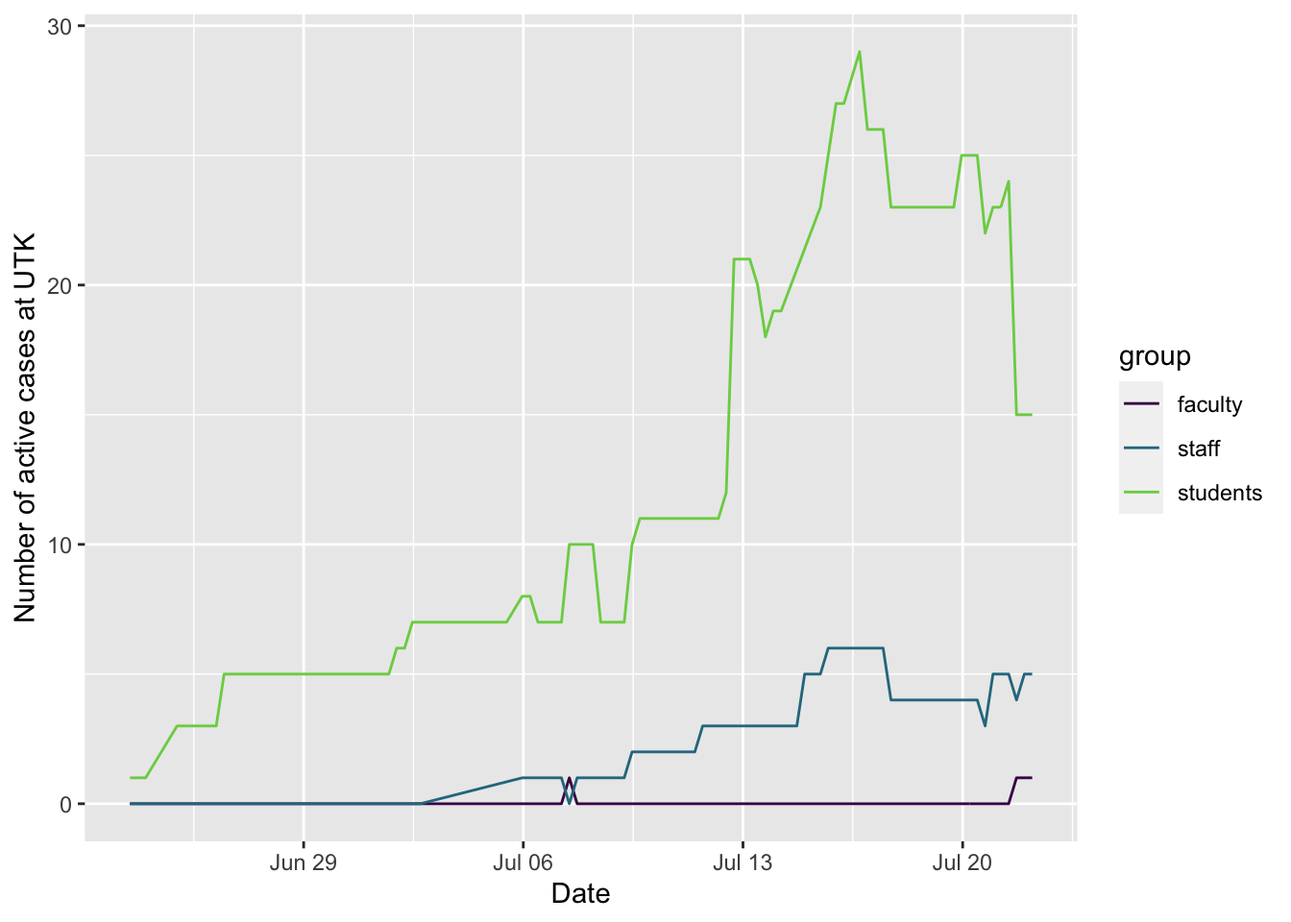
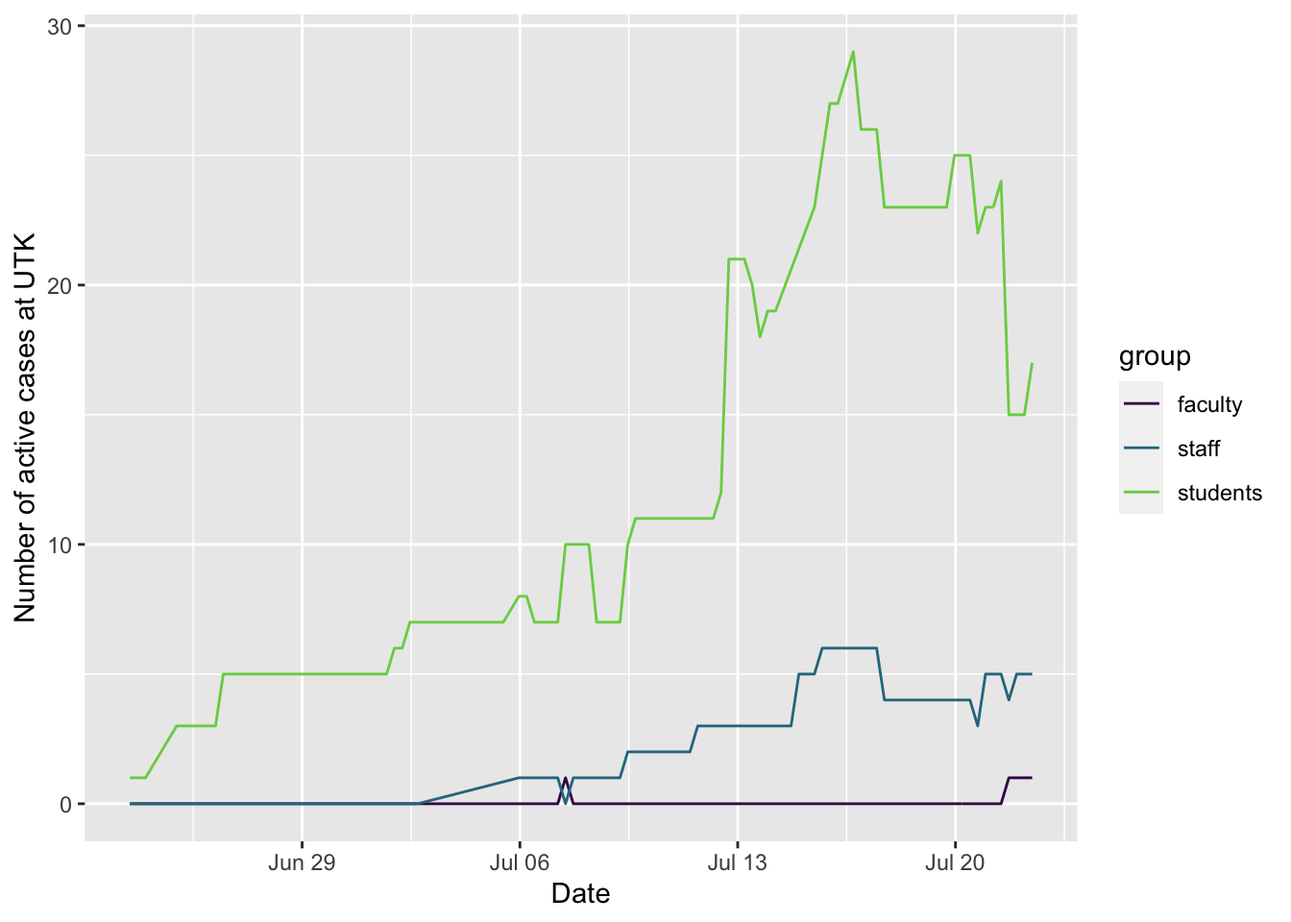
updating site

diff --git a/docs/general.html b/docs/general.html
@@ -13,7 +13,6 @@
 
 <title>General</title>
 
-<script src="site_libs/header-attrs-2.3/header-attrs.js"></script>
 <script src="site_libs/jquery-1.11.3/jquery.min.js"></script>
 <meta name="viewport" content="width=device-width, initial-scale=1" />
 <link href="site_libs/bootstrap-3.3.5/css/bootstrap.min.css" rel="stylesheet" />
@@ -402,7 +401,7 @@ $(document).ready(function () {
 <h2>Research</h2>
 <p>A major duty of a science professor, especially at a research-intensive place like U. of Tennessee, Knoxville, is to expand human knowledge through her or his research efforts. I work in a variety of areas to do this.</p>
 <ul>
-<li><p><strong>Species discovery</strong>: One area is figuring out how many species are actually present within a group. We often think of new species being discovered by, say, <a href="https://en.wikipedia.org/wiki/Marjorie_Courtenay-Latimer#Discovery_of_the_coelacanth">an astute observer seeing a weird fish in a market</a>, or on an expedition to a remote area of the jungle, but in fact many new species are discovered as a result of data showing that what we thought was one species was actually two different species with limited or no interbreeding: see examples of <a href="http://voices.nationalgeographic.com/2013/12/20/new-species-animals-tapir-brazil/">tapirs</a> or even <a href="http://news.nationalgeographic.com/news/2010/12/101222-african-elephants-two-species-new-science/">African elephants</a>. I develop some of the techniques we use to make these discoveries. This matters for basic biology: it is hard for scientists to communicate information without having names for biologically meaningful groups, and it is important to understand what leads to and maintains separate groups, but it also matters in the applied area: it is hard to conserve species properly if we do not recognize what they are (we might wipe out a species that we didn’t realize was independent, or might devote resources to saving a "species’ that is actually just a variant of a common species and lose another species due to finite resources).</p></li>
+<li><p><strong>Species discovery</strong>: One area is figuring out how many species are actually present within a group. We often think of new species being discovered by, say, <a href="https://en.wikipedia.org/wiki/Marjorie_Courtenay-Latimer#Discovery_of_the_coelacanth">an astute observer seeing a weird fish in a market</a>, or on an expedition to a remote area of the jungle, but in fact many new species are discovered as a result of data showing that what we thought was one species was actually two different species with limited or no interbreeding: see examples of <a href="http://voices.nationalgeographic.com/2013/12/20/new-species-animals-tapir-brazil/">tapirs</a> or even <a href="http://news.nationalgeographic.com/news/2010/12/101222-african-elephants-two-species-new-science/">African elephants</a>. I develop some of the techniques we use to make these discoveries. This matters for basic biology: it is hard for scientists to communicate information without having names for biologically meaningful groups, and it is important to understand what leads to and maintains separate groups, but it also matters in the applied area: it is hard to conserve species properly if we do not recognize what they are (we might wipe out a species that we didn’t realize was independent, or might devote resources to saving a &quot;species’ that is actually just a variant of a common species and lose another species due to finite resources).</p></li>
 <li><p>I also develop methods for <strong>looking at past history of life</strong>. For example, we have methods that can give information about how species have multiplied through time: do they exchange genes for a long time, has their population crashed at some point in the past, etc. This helps us understand how the current world came to be, but also may be useful in predicting what will happen as life and the environment continue to change.</p></li>
 <li><p>One major research focus has been developing approaches for looking at <strong>how and why traits change over time</strong>. For example, if you look in many environments you see more flowering plants than nonflowering plants like pines and ferns – why is this? Or questions like, once most of the dinosaurs (birds survived) went extinct, did mammals’ body size rapidly increase or was it gradual?</p></li>
 <li><p>One way I accomplish my research goals, as well as help others, is by <strong>writing software</strong>. It’s one thing to have an idea of how to solve a problem, but if you write a program to do this, then you and others can actually use the method to solve a problem. My software is free and open source. This means anyone can use it without paying me money (which makes sense, as my work has already been directly or indirectly paid for by taxpayers). It also means that anyone can look inside the software to see how it works. For example, <a href="https://github.com/bomeara/brownie/blob/master/brownie.cpp">here</a> is an example of some of the code I wrote as a grad student; you can see how people have used it by looking at <a href="https://scholar.google.com/scholar?oi=bibs&amp;hl=en&amp;cites=9860338757215931909">the hundreds of articles that cite it</a> (though some are citing just the method, not using the software itself). Another important aspect of open source software is that not only can you look at it, you can build on it to make new software, without needing my permission, as long as you make it clear that you’re reusing my software, give appropriate credit, and release your software under the same rules (allowing reuse, showing the code, etc.). Building on others’ work, while giving them credit, is one of the key ways science advances. Making software open also lets others check for errors and try to reproduce studies.</p></li>

diff --git a/docs/publications.html b/docs/publications.html
@@ -13,7 +13,6 @@
 
 <title>publications.utf8</title>
 
-<script src="site_libs/header-attrs-2.3/header-attrs.js"></script>
 <script src="site_libs/jquery-1.11.3/jquery.min.js"></script>
 <meta name="viewport" content="width=device-width, initial-scale=1" />
 <link href="site_libs/bootstrap-3.3.5/css/bootstrap.min.css" rel="stylesheet" />
@@ -398,7 +397,7 @@ $(document).ready(function () {
 
 <div id="publications" class="section level2">
 <h2>Publications</h2>
-<p>I would recommend reading a few of my best papers to get a sense of my work; good examples are <a href="https://doi.org/10.1098/rspb.2015.2304">O’Meara, Smith, et al. (2016)</a> and <a href="https://doi.org/10.1093/sysbio/syw022">Beaulieu &amp; O’Meara (2016)</a>. Metrics are not as great (for example, my work with software might get cited than someone else’s work on a new discovery about evolution, but it is not clear that the former is ‘better’) , but I know some people find them useful, so: According to Google Scholar, my work has been cited 4730 times, and my h-index is 27. (Google Scholar tends to overestimate citations, however). If there were a journal of just my papers, its 2019 impact factor would be 7.75. Also note that I work under a very stringent criterion for when I get authorship – I have to actively make a significant contribution to the research and writing to merit authorship. For example, in 2015-6, three lab members had papers in <em>Science</em> (<a href="http://science.sciencemag.org/content/350/6264/1077.long">grad student Sam Borstein</a>, <a href="http://science.sciencemag.org/content/351/6268/28">postdoc Nick Matzke</a>, and <a href="http://science.sciencemag.org/content/353/6295/154.full">postdoc Sandy Kawano</a>) but I am, appropriately to my mind, not an author on any of these.</p>
+<p>I would recommend reading a few of my best papers to get a sense of my work; good examples are <a href="https://doi.org/10.1098/rspb.2015.2304">O’Meara, Smith, et al. (2016)</a> and <a href="https://doi.org/10.1093/sysbio/syw022">Beaulieu &amp; O’Meara (2016)</a>. Metrics are not as great (for example, my work with software might get cited than someone else’s work on a new discovery about evolution, but it is not clear that the former is ‘better’) , but I know some people find them useful, so: According to Google Scholar, my work has been cited 4730 times, and my h-index is 27. (Google Scholar tends to overestimate citations, however). If there were a journal of just my papers, its 2019 impact factor would be 7.75. Also note that I work under a very stringent criterion for when I get authorship – I have to actively make a significant contribution to the research and writing to merit authorship. For example, in 2015-6, three lab members had papers in <em>Science</em> (<a href="http://science.sciencemag.org/content/350/6264/1077.long">grad student Sam Borstein</a>, <a href="http://science.sciencemag.org/content/351/6268/28">postdoc Nick Matzke</a>, and <a href="http://science.sciencemag.org/content/353/6295/154.full">postdoc Sandy Kawano</a>) but I am, appropriately to my mind, not an author on any of these.</p>
 <div id="papers" class="section level3">
 <h3>Papers</h3>
 <table>
@@ -828,7 +827,7 @@ $(document).ready(function () {
 </tr>
 <tr class="odd">
 <td>phylobase</td>
-<td>R Hackathon et al. (alphabetically: Ben Bolker, Marguerite Butler, Peter Cowan, Damien de Vienne, Dirk Eddelbuettel, Mark Holder, Thibaut, Jombart, Steve Kembel, Francois Michonneau, David Orme, Brian O’Meara, Emmanuel Paradis, Jim Regetz, Derrick Zwickl)</td>
+<td>R Hackathon et al. (alphabetically: Ben Bolker, Marguerite Butler, Peter Cowan, Damien de Vienne, Dirk Eddelbuettel, Mark Holder, Thibaut, Jombart, Steve Kembel, Francois Michonneau, David Orme, Brian O’Meara, Emmanuel Paradis, Jim Regetz, Derrick Zwickl)</td>
 <td>Base Package for Phylogenetic Structures and Comparative Data</td>
 <td>133383</td>
 </tr>

diff --git a/docs/cv.html b/docs/cv.html
@@ -13,7 +13,6 @@
 
 <title>CV</title>
 
-<script src="site_libs/header-attrs-2.3/header-attrs.js"></script>
 <script src="site_libs/jquery-1.11.3/jquery.min.js"></script>
 <meta name="viewport" content="width=device-width, initial-scale=1" />
 <link href="site_libs/bootstrap-3.3.5/css/bootstrap.min.css" rel="stylesheet" />
@@ -459,7 +458,7 @@ $(document).ready(function () {
 </div>
 <div id="publications" class="section level2">
 <h2>Publications</h2>
-<p>I would recommend reading a few of my best papers to get a sense of my work; good examples are <a href="https://doi.org/10.1098/rspb.2015.2304">O’Meara, Smith, et al. (2016)</a> and <a href="https://doi.org/10.1093/sysbio/syw022">Beaulieu &amp; O’Meara (2016)</a>. Metrics are not as great (for example, my work with software might get cited than someone else’s work on a new discovery about evolution, but it is not clear that the former is ‘better’) , but I know some people find them useful, so: According to Google Scholar, my work has been cited 4730 times, and my h-index is 27. (Google Scholar tends to overestimate citations, however). If there were a journal of just my papers, its 2019 impact factor would be 7.75. Also note that I work under a very stringent criterion for when I get authorship – I have to actively make a significant contribution to the research and writing to merit authorship. For example, in 2015-6, three lab members had papers in <em>Science</em> (<a href="http://science.sciencemag.org/content/350/6264/1077.long">grad student Sam Borstein</a>, <a href="http://science.sciencemag.org/content/351/6268/28">postdoc Nick Matzke</a>, and <a href="http://science.sciencemag.org/content/353/6295/154.full">postdoc Sandy Kawano</a>) but I am, appropriately to my mind, not an author on any of these.</p>
+<p>I would recommend reading a few of my best papers to get a sense of my work; good examples are <a href="https://doi.org/10.1098/rspb.2015.2304">O’Meara, Smith, et al. (2016)</a> and <a href="https://doi.org/10.1093/sysbio/syw022">Beaulieu &amp; O’Meara (2016)</a>. Metrics are not as great (for example, my work with software might get cited than someone else’s work on a new discovery about evolution, but it is not clear that the former is ‘better’) , but I know some people find them useful, so: According to Google Scholar, my work has been cited 4730 times, and my h-index is 27. (Google Scholar tends to overestimate citations, however). If there were a journal of just my papers, its 2019 impact factor would be 7.75. Also note that I work under a very stringent criterion for when I get authorship – I have to actively make a significant contribution to the research and writing to merit authorship. For example, in 2015-6, three lab members had papers in <em>Science</em> (<a href="http://science.sciencemag.org/content/350/6264/1077.long">grad student Sam Borstein</a>, <a href="http://science.sciencemag.org/content/351/6268/28">postdoc Nick Matzke</a>, and <a href="http://science.sciencemag.org/content/353/6295/154.full">postdoc Sandy Kawano</a>) but I am, appropriately to my mind, not an author on any of these.</p>
 <div id="papers" class="section level3">
 <h3>Papers</h3>
 <table>
@@ -889,7 +888,7 @@ $(document).ready(function () {
 </tr>
 <tr class="odd">
 <td>phylobase</td>
-<td>R Hackathon et al. (alphabetically: Ben Bolker, Marguerite Butler, Peter Cowan, Damien de Vienne, Dirk Eddelbuettel, Mark Holder, Thibaut, Jombart, Steve Kembel, Francois Michonneau, David Orme, Brian O’Meara, Emmanuel Paradis, Jim Regetz, Derrick Zwickl)</td>
+<td>R Hackathon et al. (alphabetically: Ben Bolker, Marguerite Butler, Peter Cowan, Damien de Vienne, Dirk Eddelbuettel, Mark Holder, Thibaut, Jombart, Steve Kembel, Francois Michonneau, David Orme, Brian O’Meara, Emmanuel Paradis, Jim Regetz, Derrick Zwickl)</td>
 <td>Base Package for Phylogenetic Structures and Comparative Data</td>
 <td>133383</td>
 </tr>

diff --git a/docs/research.html b/docs/research.html
@@ -13,7 +13,6 @@
 
 <title>Research</title>
 
-<script src="site_libs/header-attrs-2.3/header-attrs.js"></script>
 <script src="site_libs/jquery-1.11.3/jquery.min.js"></script>
 <meta name="viewport" content="width=device-width, initial-scale=1" />
 <link href="site_libs/bootstrap-3.3.5/css/bootstrap.min.css" rel="stylesheet" />
@@ -400,7 +399,7 @@ $(document).ready(function () {
 <p>Note you can see a feed of recent articles at <a href="http://scholar.google.com/citations?sortby=pubdate&amp;hl=en&amp;user=vpjEkQwAAAAJ&amp;view_op=list_works">Google Scholar</a>; this updates more quickly than this page does. In the lag time between submission and publication, you can see my manuscripts on <a href="http://biorxiv.org/search/author1%3ABrian%2BO%2527Meara%2B">bioRxiv</a>.</p>
 <div id="trait-evolution" class="section level3">
 <h3>Trait evolution</h3>
-<p>Work in our lab most usually focuses on trait evolution, with most emphasis on methods that allow heterogeneity over the tree. For example, O’Meara et al. (2006) developed a method that allows the rate of Brownian motion to vary over a tree. This can be used to test ideas about rate evolution (Collar et al. 2009; Collar et al. 2010) and has been cited 150 times (according to Google Scholar in Aug. 2012). This work has been extended to deal with shifting rates, strengths of attraction, and means under an Ornstein-Uhlenbeck process (Beaulieu et al. 2012). Similarly, we have developed a model for different rates of gene loss on different parts of a tree (O’Meara 2007) and methods for looking at hidden rates for discrete characters (Beaulieu et al. 2014). A review of methods in general has been published (O’Meara 2012b) where I tried to show connections across methods. We have also looked at empirical datasets, often plants, to understand evolutionary processes (eg., Zanne et al. 2013, Williams et al. 2014, Cornwell et al. 2014).</p>
+<p>Work in our lab most usually focuses on trait evolution, with most emphasis on methods that allow heterogeneity over the tree. For example, O’Meara et al. (2006) developed a method that allows the rate of Brownian motion to vary over a tree. This can be used to test ideas about rate evolution (Collar et al. 2009; Collar et al. 2010) and has been cited 150 times (according to Google Scholar in Aug. 2012). This work has been extended to deal with shifting rates, strengths of attraction, and means under an Ornstein-Uhlenbeck process (Beaulieu et al. 2012). Similarly, we have developed a model for different rates of gene loss on different parts of a tree (O’Meara 2007) and methods for looking at hidden rates for discrete characters (Beaulieu et al. 2014). A review of methods in general has been published (O’Meara 2012b) where I tried to show connections across methods. We have also looked at empirical datasets, often plants, to understand evolutionary processes (eg., Zanne et al. 2013, Williams et al. 2014, Cornwell et al. 2014).</p>
 </div>
 <div id="species-delimitation-gene-tree-species-tree-messiness" class="section level3">
 <h3>Species delimitation / gene tree-species tree messiness</h3>

diff --git a/docs/covid.html b/docs/covid.html
@@ -14,7 +14,6 @@
 
 <title>Local COVID data</title>
 
-<script src="site_libs/header-attrs-2.3/header-attrs.js"></script>
 <script src="site_libs/jquery-1.11.3/jquery.min.js"></script>
 <meta name="viewport" content="width=device-width, initial-scale=1" />
 <link href="site_libs/bootstrap-3.3.5/css/bootstrap.min.css" rel="stylesheet" />
@@ -424,7 +423,7 @@ $(document).ready(function () {
 <li>Info about <a href="#activity">activity</a> based on data from Google about activity at different locations</li>
 <li><a href="#webcams">Webcams</a> showing activity at local sites, though not quite at the resolution to point to mask usage or not</li>
 </ul>
-<p>The following plots are created in R using data from <a href="https://covid19datahub.io" class="uri">https://covid19datahub.io</a> (Guidotti, E., Ardia, D., (2020), “COVID-19 Data Hub”, Working paper, doi: 10.13140/RG.2.2.11649.81763), as well as information from Google and the <a href="https://www.tn.gov/health/cedep/ncov/data/downloadable-datasets.html">state of Tennessee dataset page</a> and plotting and analysis using the <code>forecast</code>, <code>ggplot2</code>, <code>reshape2</code>, and <code>dplyr</code> packages. It also uses the <a href="https://github.com/mtna/rds-r">rds-r</a> package from <a href="https://www.richdataservices.com/" class="uri">https://www.richdataservices.com/</a>. Plots created on 2020-07-22 07:57:35. I use <code>ggplot2</code>’s <code>geom_smooth()</code> function for the smoothed regression plots with its default formula, which uses loess smoothing for this many points. This is not based on a model of disease spread or anything similarly sophisticated, just drawing a smooth curve to summarize noisy points (see <a href="https://www.itl.nist.gov/div898/handbook/pmd/section1/pmd144.htm">here</a> for more details).</p>
+<p>The following plots are created in R using data from <a href="https://covid19datahub.io" class="uri">https://covid19datahub.io</a> (Guidotti, E., Ardia, D., (2020), “COVID-19 Data Hub”, Working paper, doi: 10.13140/RG.2.2.11649.81763), as well as information from Google and the <a href="https://www.tn.gov/health/cedep/ncov/data/downloadable-datasets.html">state of Tennessee dataset page</a> and plotting and analysis using the <code>forecast</code>, <code>ggplot2</code>, <code>reshape2</code>, and <code>dplyr</code> packages. It also uses the <a href="https://github.com/mtna/rds-r">rds-r</a> package from <a href="https://www.richdataservices.com/" class="uri">https://www.richdataservices.com/</a>. Plots created on 2020-07-22 12:34:04. I use <code>ggplot2</code>’s <code>geom_smooth()</code> function for the smoothed regression plots with its default formula, which uses loess smoothing for this many points. This is not based on a model of disease spread or anything similarly sophisticated, just drawing a smooth curve to summarize noisy points (see <a href="https://www.itl.nist.gov/div898/handbook/pmd/section1/pmd144.htm">here</a> for more details).</p>
 <h2 id="cases">
 Cases
 </h2>

diff --git a/docs/opportunities.html b/docs/opportunities.html
@@ -13,7 +13,6 @@
 
 <title>Opportunities</title>
 
-<script src="site_libs/header-attrs-2.3/header-attrs.js"></script>
 <script src="site_libs/jquery-1.11.3/jquery.min.js"></script>
 <meta name="viewport" content="width=device-width, initial-scale=1" />
 <link href="site_libs/bootstrap-3.3.5/css/bootstrap.min.css" rel="stylesheet" />
@@ -403,7 +402,7 @@ $(document).ready(function () {
 <p>You might look at <a href="http://brianomeara.info/guidelines.html">lab guidelines</a> to get a sense of how the lab works. Materials I created for <a href="http://brianomeara.info/promotion.html">promotion</a>, especially the promotion packet itself (<a href="http://brianomeara.info/files/OMearaPromotionPacket.pdf">PDF</a>) may give you a good summary of where my teaching, research, and service have been and are going. For what you might learn here, <a href="http://brianomeara.info/learningobjectives.html">learning objectives</a> can be helpful.</p>
 <div id="postdocs" class="section level2">
 <h2>Postdocs</h2>
-<div id="sept.-2019" class="section level3">
+<div id="sept.2019" class="section level3">
 <h3>Sept. 2019</h3>
 <p>There are three postdoc positions. They can be remote or local to Knoxville. In general, the lab is run in such a way that working remotely is fine – lab meetings are virtual for everyone, we have a group chat in slack, we do work through GitHub, etc. It can be good to be here (seminars, social connections with others) but not everyone has the flexibility to move.</p>
 <p>Two are for continuing development of Approximate Bayesian Computation approaches for phylogenetics. We have a method for single continuous traits almost ready (doing final simulations on it now) but we want to extend it to discrete traits, multivariate traits, and more. To apply for this, go to <a href="https://ut.taleo.net/careersection/ut_system/jobdetail.ftl?job=19000001LL&amp;tz=GMT-04%3A00&amp;tzname=America%2FNew_York">here</a>.</p>

diff --git a/docs/index.html b/docs/index.html
@@ -13,7 +13,6 @@
 
 <title>Home</title>
 
-<script src="site_libs/header-attrs-2.3/header-attrs.js"></script>
 <script src="site_libs/jquery-1.11.3/jquery.min.js"></script>
 <meta name="viewport" content="width=device-width, initial-scale=1" />
 <link href="site_libs/bootstrap-3.3.5/css/bootstrap.min.css" rel="stylesheet" />
@@ -32,7 +31,6 @@
 
   gtag('config', 'UA-103450-1');
 </script>
-
 
 <style type="text/css">code{white-space: pre;}</style>
 <style type="text/css">
@@ -410,7 +408,7 @@ $(document).ready(function () {
 <p><em>Most of this website is written for a specialist scientific audience; folks who aren’t scientists are very welcome to look around, but <a href="http://www.brianomeara.info/general">this page</a> might be a more accessible introduction. For a compressed version of information about me, please see my <a href="http://brianomeara.info/cv/">CV</a>.</em> I am a professor at <a href="http://www.utk.edu/">U of Tennessee, Knoxville</a>, in the department of <a href="http://eeb.bio.utk.edu/">Ecology &amp; Evolutionary Biology</a>. In my lab, we develop and apply phylogenetic tools to address evolutionary questions.</p>
 <div style="float:right">
 <div class="figure">
-<img src="hisse.jpg" alt="" />
+<img src="hisse.jpg" alt="HiSSE image" />
 <p class="caption">HiSSE image</p>
 </div>
 </div>
@@ -428,7 +426,7 @@ $(document).ready(function () {
 </ul>
 <div style="float:right">
 <div class="figure">
-<img src="phrapl.gif" alt="" />
+<img src="phrapl.gif" alt="PHRAPL diagram" />
 <p class="caption">PHRAPL diagram</p>
 </div>
 </div>

diff --git a/docs/eeb464.html b/docs/eeb464.html
@@ -13,7 +13,6 @@
 
 <title>Macroevolution (EEB464)</title>
 
-<script src="site_libs/header-attrs-2.3/header-attrs.js"></script>
 <script src="site_libs/jquery-1.11.3/jquery.min.js"></script>
 <meta name="viewport" content="width=device-width, initial-scale=1" />
 <link href="site_libs/bootstrap-3.3.5/css/bootstrap.min.css" rel="stylesheet" />
@@ -1028,7 +1027,7 @@ Grading:</strong></p>
 <p>In addition to these assignments, students will periodically be given articles to read for later discussion. Quizzes or other assignments will assess whether the articles have been read.</p>
 <p>Final letter grades will be assigned at the end of the semester using an instructor-specified scale. I aim for grading consistency across years and with other courses at UTK.</p>
 <div class="figure">
-<img src="FluttershyPhylogeny.jpg" alt="" />
+<img src="FluttershyPhylogeny.jpg" alt="Fluttershy teaching about phylogenetics" />
 <p class="caption">Fluttershy teaching about phylogenetics</p>
 </div>
 <div id="presentations" class="section level4">

diff --git a/docs/useful.html b/docs/useful.html
@@ -13,7 +13,6 @@
 
 <title>Useful links</title>
 
-<script src="site_libs/header-attrs-2.3/header-attrs.js"></script>
 <script src="site_libs/jquery-1.11.3/jquery.min.js"></script>
 <meta name="viewport" content="width=device-width, initial-scale=1" />
 <link href="site_libs/bootstrap-3.3.5/css/bootstrap.min.css" rel="stylesheet" />
@@ -32,7 +31,6 @@
 
   gtag('config', 'UA-103450-1');
 </script>
-
 
 <style type="text/css">code{white-space: pre;}</style>
 <style type="text/css">
@@ -456,7 +454,7 @@ $(document).ready(function () {
 <div id="fun" class="section level2">
 <h2>Fun</h2>
 <div class="figure">
-<img src="https://www.air-resource.net/GRSMNFGap/gsng.jpg" alt="" />
+<img src="https://www.air-resource.net/GRSMNFGap/gsng.jpg" alt="Image from Newfound Gap in the Smokies" />
 <p class="caption">Image from Newfound Gap in the Smokies</p>
 </div>
 <ul>

diff --git a/docs/aic.html b/docs/aic.html
@@ -13,7 +13,6 @@
 
 <title>Model Selection Using the Akaike Information Criterion (AIC)</title>
 
-<script src="site_libs/header-attrs-2.3/header-attrs.js"></script>
 <script src="site_libs/jquery-1.11.3/jquery.min.js"></script>
 <meta name="viewport" content="width=device-width, initial-scale=1" />
 <link href="site_libs/bootstrap-3.3.5/css/bootstrap.min.css" rel="stylesheet" />
@@ -32,7 +31,6 @@
 
   gtag('config', 'UA-103450-1');
 </script>
-
 
 <style type="text/css">code{white-space: pre;}</style>
 <style type="text/css">

diff --git a/docs/SSB.html b/docs/SSB.html
@@ -13,7 +13,6 @@
 
 <title>SSB candidacy</title>
 
-<script src="site_libs/header-attrs-2.3/header-attrs.js"></script>
 <script src="site_libs/jquery-1.11.3/jquery.min.js"></script>
 <meta name="viewport" content="width=device-width, initial-scale=1" />
 <link href="site_libs/bootstrap-3.3.5/css/bootstrap.min.css" rel="stylesheet" />
@@ -32,7 +31,6 @@
 
   gtag('config', 'UA-103450-1');
 </script>
-
 
 <style type="text/css">code{white-space: pre;}</style>
 <style type="text/css">

diff --git a/docs/macsetup.html b/docs/macsetup.html
@@ -13,7 +13,6 @@
 
 <title>New Mac setup</title>
 
-<script src="site_libs/header-attrs-2.3/header-attrs.js"></script>
 <script src="site_libs/jquery-1.11.3/jquery.min.js"></script>
 <meta name="viewport" content="width=device-width, initial-scale=1" />
 <link href="site_libs/bootstrap-3.3.5/css/bootstrap.min.css" rel="stylesheet" />
@@ -32,7 +31,6 @@
 
   gtag('config', 'UA-103450-1');
 </script>
-
 
 <style type="text/css">code{white-space: pre;}</style>
 <style type="text/css">
